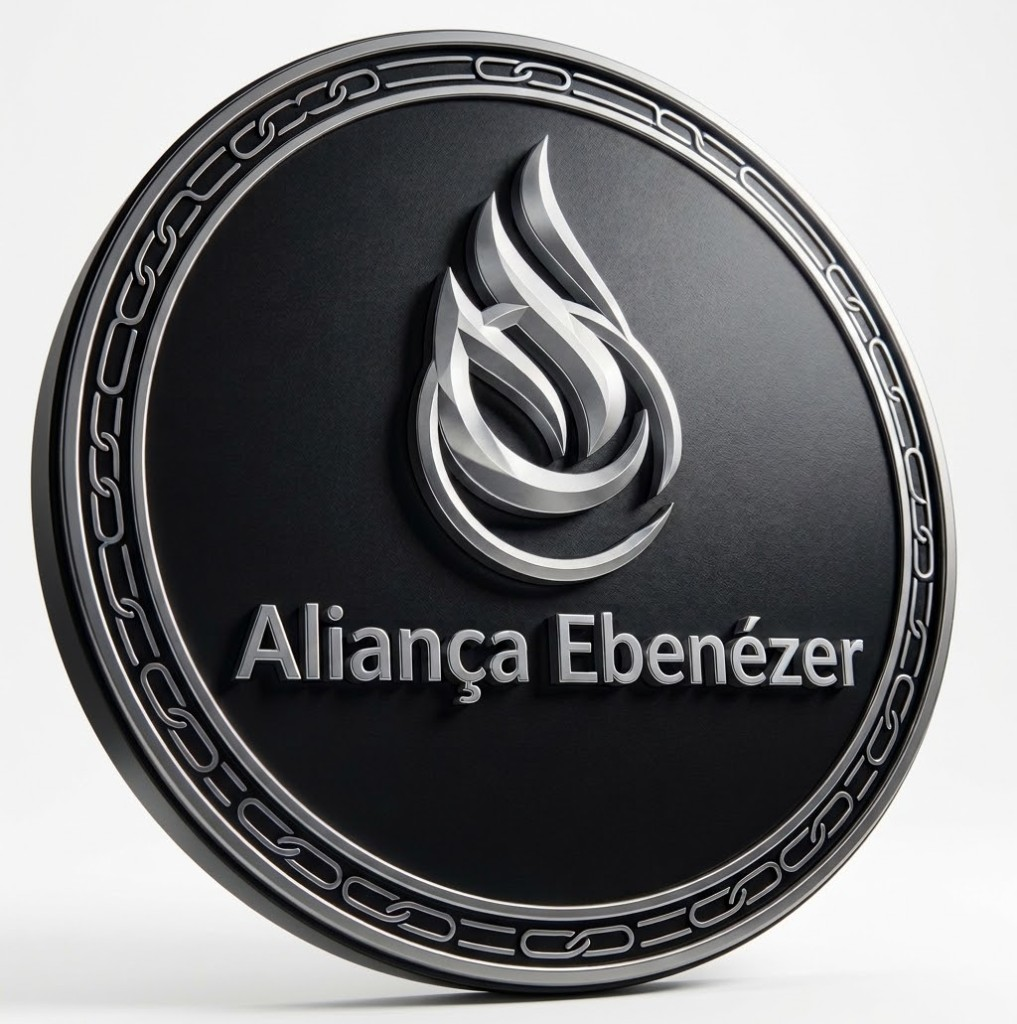
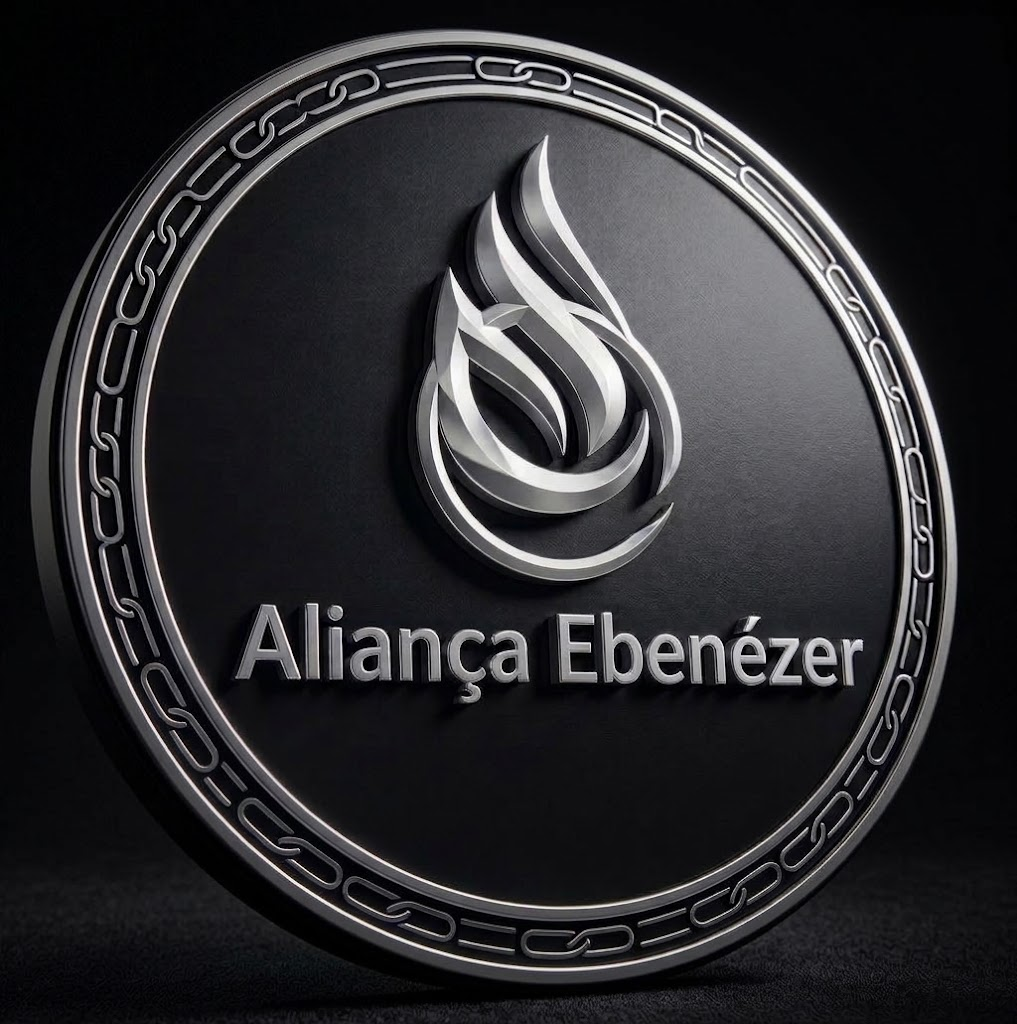
Use the dark Alianca Ebenezer emblem on the material loading screen.

diff --git a/material.html b/material.html
@@ -95,26 +95,20 @@
         place-items: center;
       }
       .ebenezer-boot__mark {
-        width: 78%;
-        height: 78%;
-        border-radius: 50%;
-        object-fit: cover;
+        width: 88%;
+        height: 88%;
+        object-fit: contain;
         object-position: center;
-        transform: scale(1.08);
-        box-shadow:
-          0 24px 50px rgba(0, 0, 0, 0.55),
-          0 0 0 1px rgba(255, 255, 255, 0.08),
-          0 0 40px rgba(210, 220, 235, 0.18);
+        filter: drop-shadow(0 18px 28px rgba(0, 0, 0, 0.45));
         animation: ebenezer-float 3.6s ease-in-out infinite;
       }
       .ebenezer-boot__sheen {
         position: absolute;
-        width: 78%;
-        height: 78%;
-        border-radius: 50%;
+        width: 88%;
+        height: 88%;
         overflow: hidden;
         pointer-events: none;
-        transform: scale(1.08);
+        border-radius: 50%;
       }
       .ebenezer-boot__sheen::after {
         content: "";
@@ -205,8 +199,8 @@
       }
       @keyframes ebenezer-spin { to { transform: rotate(360deg); } }
       @keyframes ebenezer-float {
-        0%, 100% { transform: scale(1.08) translateY(0); }
-        50% { transform: scale(1.08) translateY(-8px); }
+        0%, 100% { transform: translateY(0); }
+        50% { transform: translateY(-8px); }
       }
       @keyframes ebenezer-glow {
         0%, 100% { opacity: 0.55; transform: scale(0.92); }
@@ -247,7 +241,7 @@
         <div class="ebenezer-boot__ring ebenezer-boot__ring--outer" aria-hidden="true"></div>
         <div class="ebenezer-boot__ring ebenezer-boot__ring--inner" aria-hidden="true"></div>
         <div class="ebenezer-boot__orbit" aria-hidden="true"></div>
-        <img class="ebenezer-boot__mark" src="./alianca-ebenezer.jpg" alt="" />
+        <img class="ebenezer-boot__mark" src="./alianca-ebenezer.jpg?v=2" alt="" />
         <div class="ebenezer-boot__sheen" aria-hidden="true"></div>
       </div>
       <p class="ebenezer-boot__title">Aliança Ebenézer</p>
